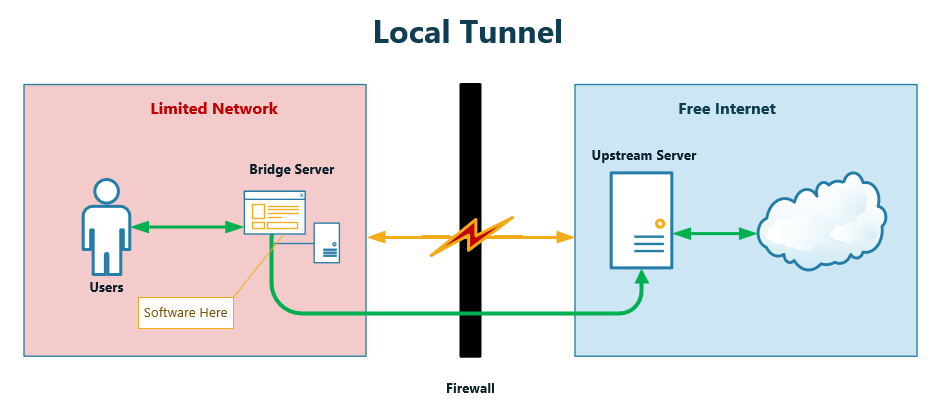
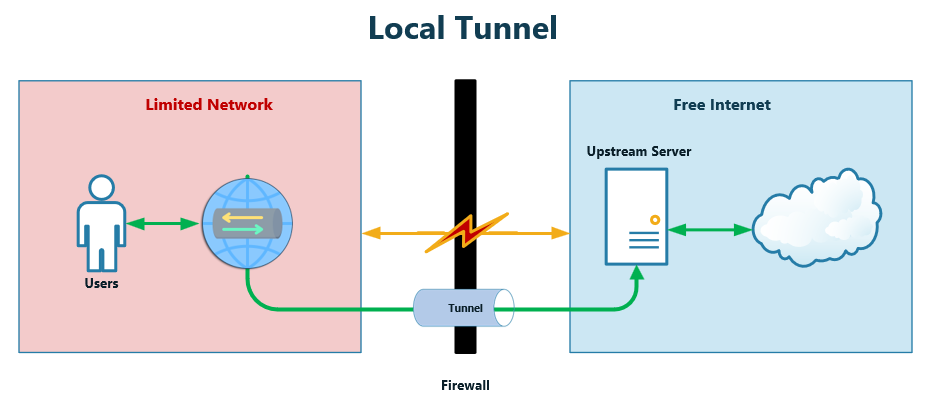
update

diff --git a/README.MD b/README.MD
@@ -65,46 +65,13 @@
 
 ### تونل پویا (Dynamic)
 
-در این روش یک اتصال امن بین دو سرور ار نوع SOCKS برقرار شده و کل ترافیک شبکه بالادستی به سرور پل منتقل شده ولی در اختیار کاربر نهایی قرار نمی گیرد.
+در این روش یک اتصال امن بین دو سرور ار نوع SOCKS برقرار شده و کل ترافیک شبکه سرور بالادستی به سرور پل منتقل شده ولی در اختیار کاربر نهایی قرار نمی گیرد.
 
 - این نوع اتصال زمانی کاربرد دارد که شما بر روی سرور رابط به اینترنت بدون محدودیت نیاز دارید
 
 <p align="center">
-    <img src="docs/Dynamic-tunnel.png" style="width:70%; height:auto;">
+    <img src="docs/Dynamic-Tunnel.png" style="width:70%; height:auto;">
 </p>
-
-
-
-
-### فعال کردن گزینه `GatewayPorts` در سرور رابط
-
-اگر گزینه `GatewayPorts` در تنظیمات سرور رابط فعال نباشد پورت به صورت لوکال باز خواهد شد و فقط از روی سرور به آن دسترسی وجود خواهد داشت 
-
-فایل `sshd_config` را از مسیر /etc/ssh باز کرده
-
-```bash 
-nano /etc/ssh/sshd_config
-```
-و مقدار `GatewayPorts` را در فایل پیدا کرده و مقدار آن را به `true` تغییر دهید 
-
-```config
-#AllowAgentForwarding yes
-#AllowTcpForwarding yes
-GatewayPorts yes
-#X11Forwarding yes
-#X11DisplayOffset 10
-#X11UseLocalhost yes
-#PermitTTY yes
-PrintMotd no
-#PrintLastLog yes
-```
-
-و سپس سرویسی ssh را مجددا راه اندازی کنید
-
-```bash
-systemctl restart sshd
-```
-
 
 ## راه اندازی
 بسته به شرایط توضیح داده شده کل پروژه را روی یکی از سرور ها کلون کنید
@@ -113,10 +80,10 @@ systemctl restart sshd
 ```bash
 git clone https://github.com/beigi-reza/ssh-tunnel-managment
 ```
-این برنامه برای اتصال بین سرور ها و بالا بردن امنیت از `SSH_KEY` به جای کلمه عبور استفاده می کند.
+
 
 ### ایجاد کلید
-
+این برنامه برای اتصال بین سرور ها و بالا بردن امنیت از `SSH_KEY` به جای کلمه عبور استفاده می کند.
 ابتدا یک شاخه در مسیر اصلی نرم افزار به نام `key` ایجاد کنید
 
 ```bash
@@ -202,7 +169,7 @@ ssh-copy-id -i key/id_rsa.pub <USER>@<IP>
 این یک مکانیزم مهم برای نظارت بر وضعیت تونل ها می باشد
 این مکانیزم یک جفت اتصال داخلی (loopback) بین خودش و سرور مفصد ایجاد می کند 
 
-ترم افزار از این پورت اضافی برای ارسال و دریافت بسته هایس کوچک استفاده می کند تا از برقرار بودن و عملکرد صحیح تونل اطمینان یابد  و اگر اتصال به هر دلیلی در آن اختلال به وجود بیاید (قطغ شدن اینترنت، فریز شدن سروذ مقصد و یا کشته شدن اتصال توسط زیر ساخت) نرم افزار متوجه می شود که اتصال مرده است و مجددا آن را بازسازی می کتد.
+ترم افزار از این پورت اضافی برای ارسال و دریافت بسته های کوچک استفاده می کند تا از برقرار بودن و عملکرد صحیح تونل اطمینان یابد  و اگر اتصال به هر دلیلی در آن اختلال به وجود بیاید (قطغ شدن اینترنت، فریز شدن سرور مقصد و یا کشته شدن اتصال توسط زیر ساخت) نرم افزار متوجه می شود که اتصال مرده است و مجددا آن را بازسازی می کتد.
 
 نکات مهم:
 
@@ -421,6 +388,35 @@ tail -f logs/KeepAlivelog.csv
  
  - پورت مبدا اشتباه است 
  - اگر نوع تونل ریموت می باشد، گزینه GatewayPorts درتنظیمات سرور پل فعال نشده است .
+
+### فعال کردن گزینه `GatewayPorts` در سرور رابط
+
+اگر گزینه `GatewayPorts` در تنظیمات سرور رابط فعال نباشد پورت به صورت لوکال باز خواهد شد و فقط از روی سرور به آن دسترسی وجود خواهد داشت 
+
+فایل `sshd_config` را از مسیر /etc/ssh باز کرده
+
+```bash 
+nano /etc/ssh/sshd_config
+```
+و مقدار `GatewayPorts` را در فایل پیدا کرده و مقدار آن را به `true` تغییر دهید 
+
+```config
+#AllowAgentForwarding yes
+#AllowTcpForwarding yes
+GatewayPorts yes
+#X11Forwarding yes
+#X11DisplayOffset 10
+#X11UseLocalhost yes
+#PermitTTY yes
+PrintMotd no
+#PrintLastLog yes
+```
+
+و سپس سرویسی ssh را مجددا راه اندازی کنید
+
+```bash
+systemctl restart sshd
+```
 
 
 
